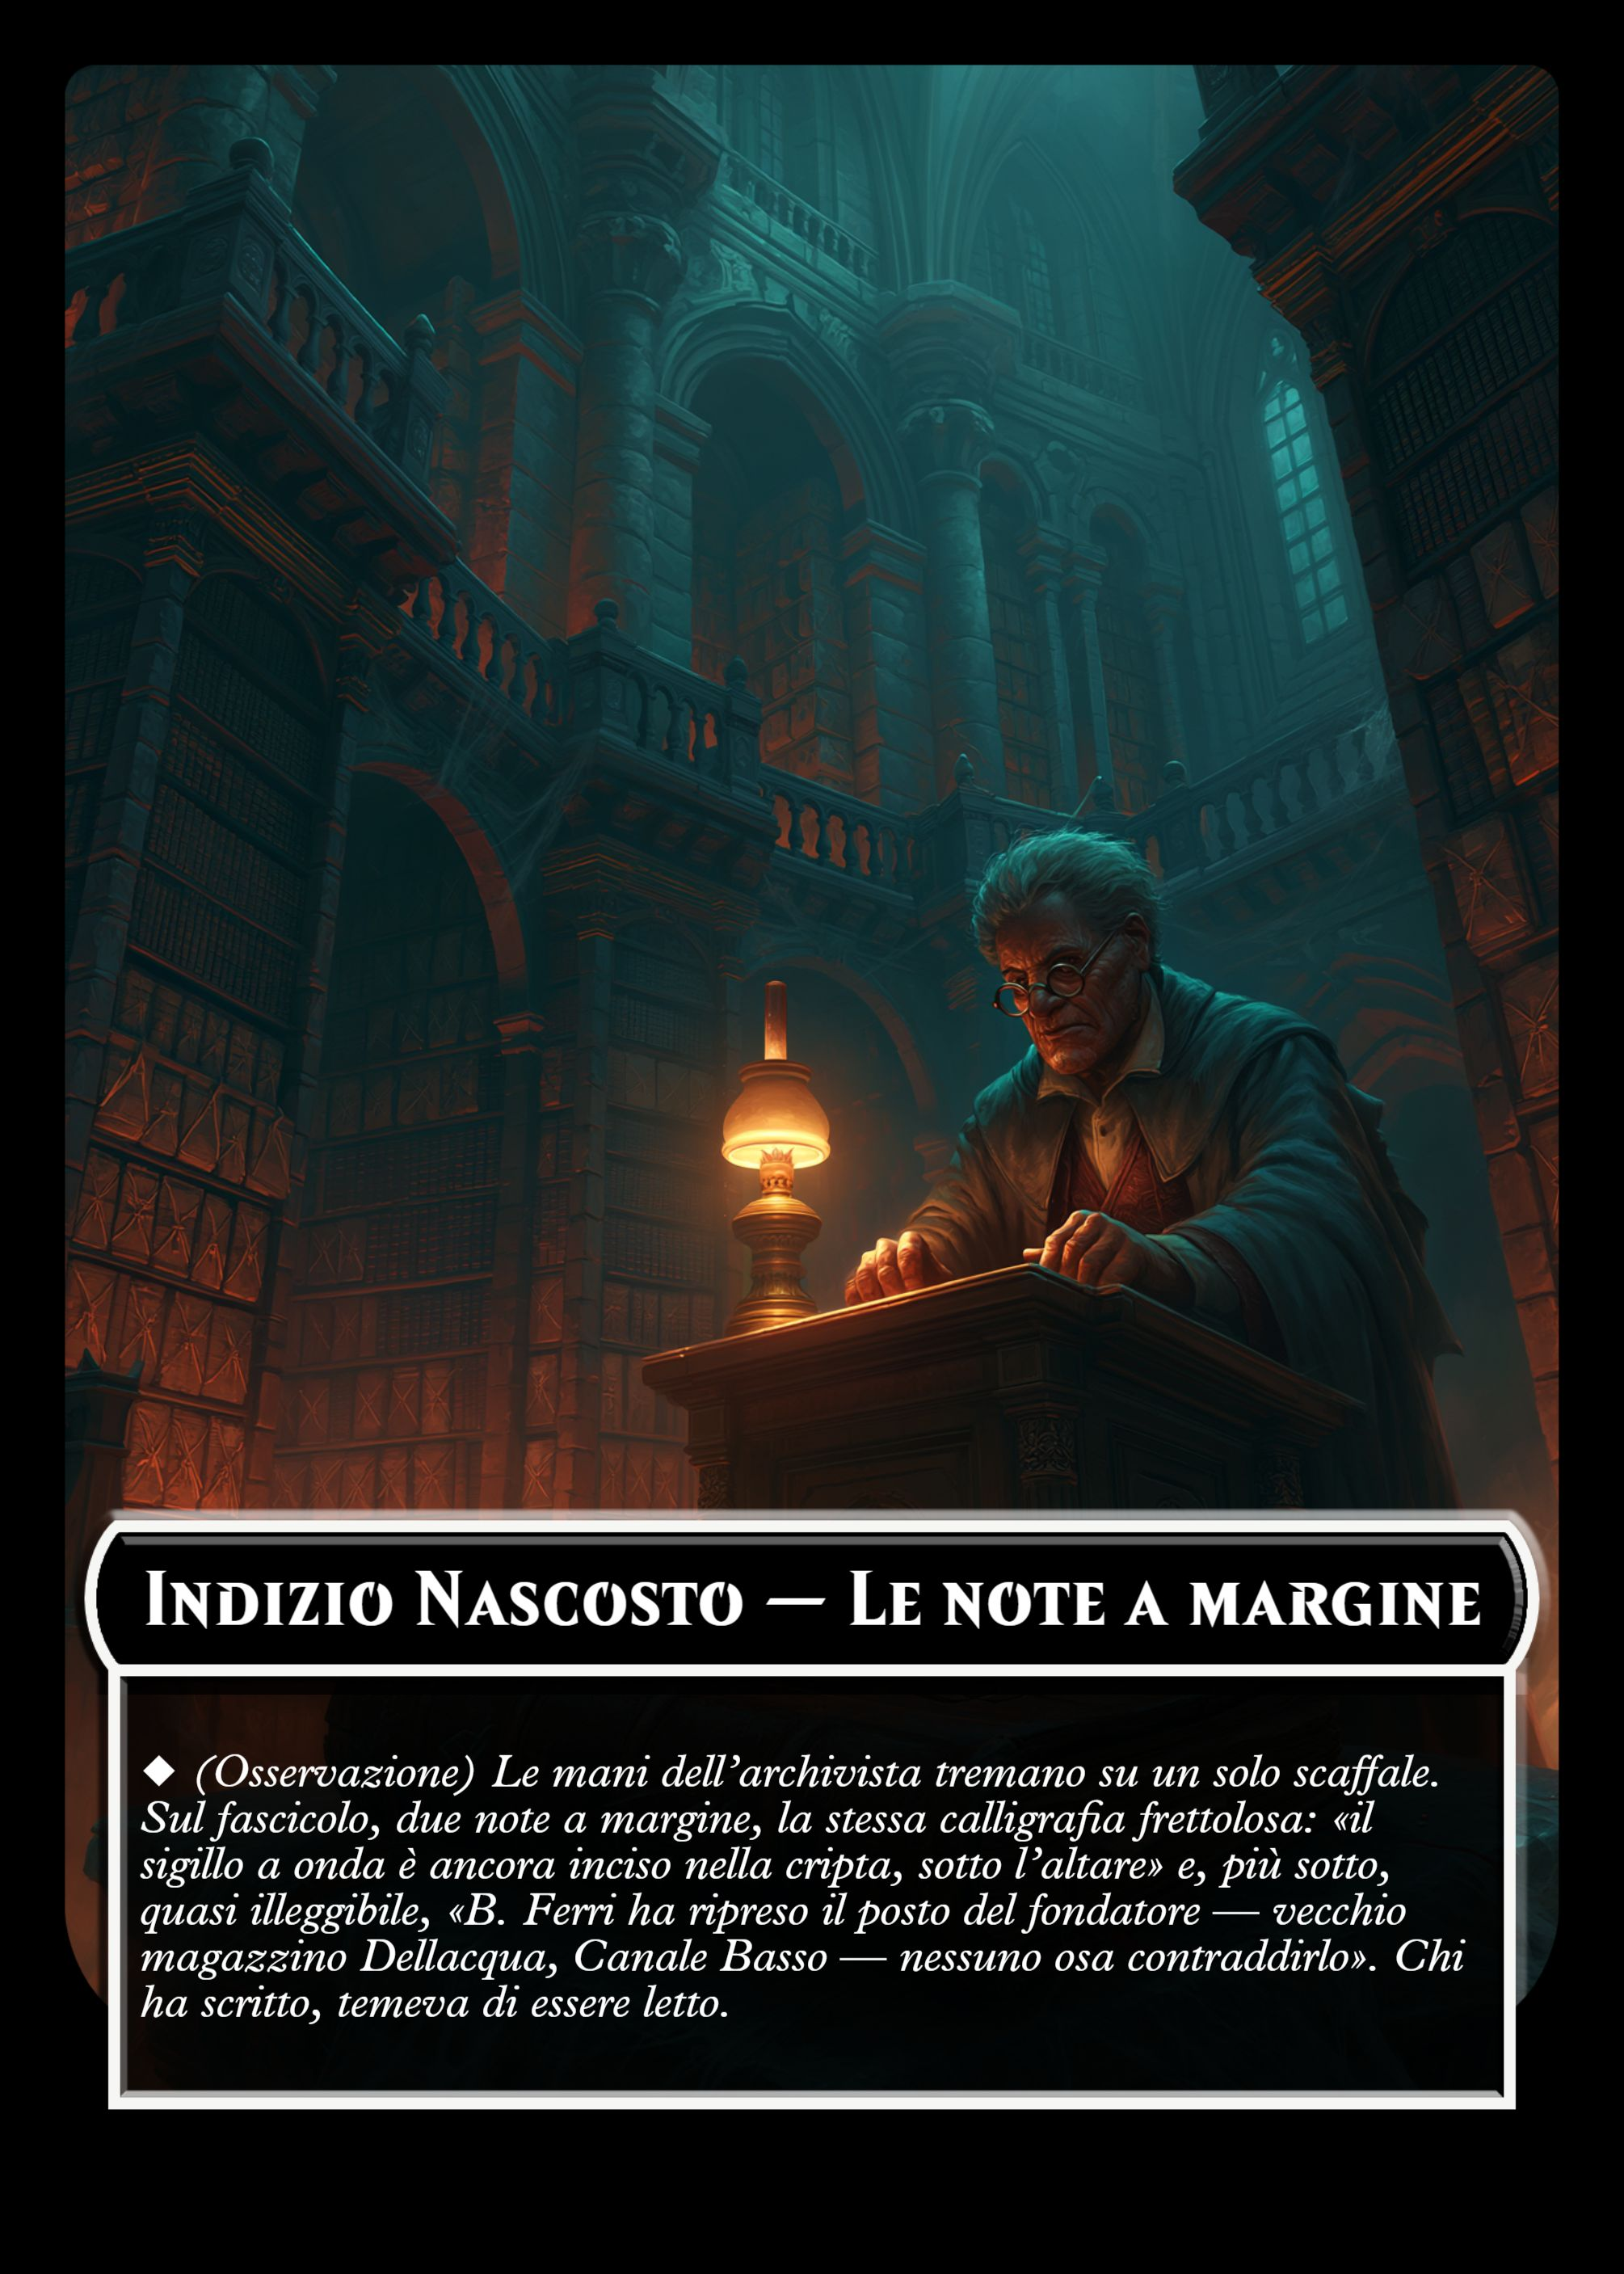
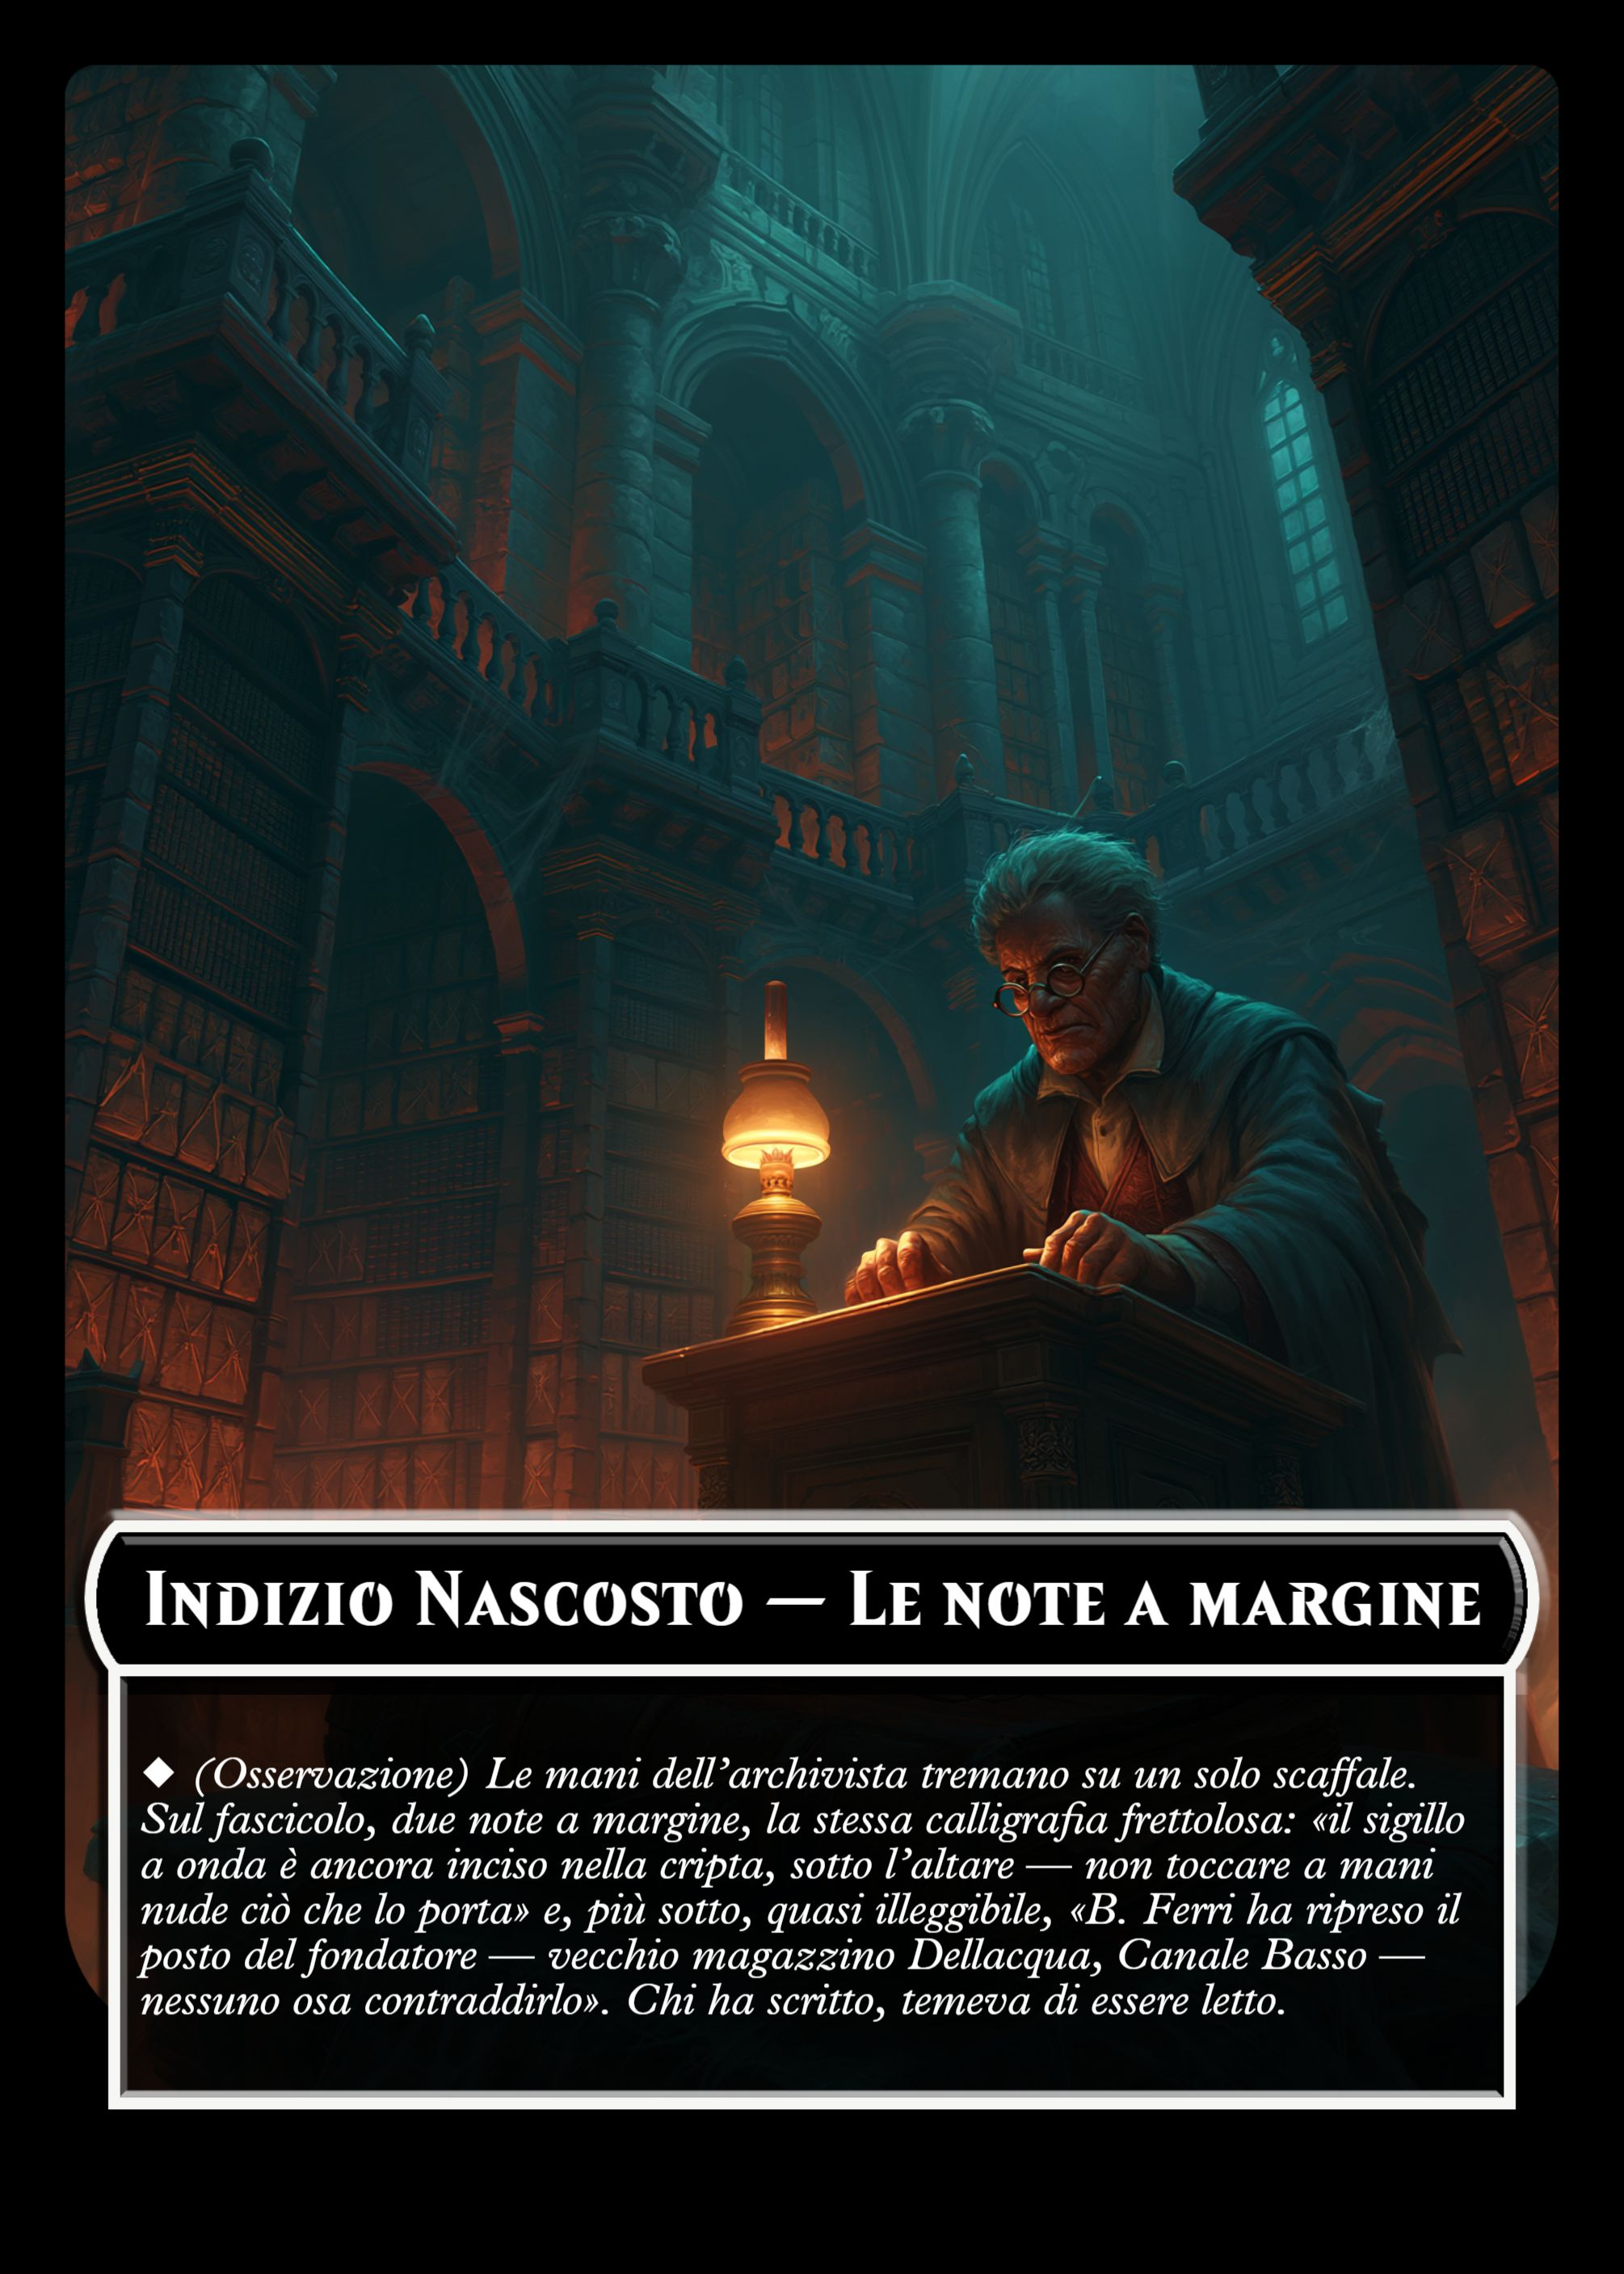
Scoperta in Spedizione: ponte Indagine->Spedizione, tell sul fronte, esiti vuoti con colore
Cercare era una scommessa cieca e l'Indagine ben fatta non pagava dentro
la Spedizione (solo il tier). Tre aggiunte, zero componenti nuovi:

- Hook Indagine->Spedizione (campo `hook` in TILES, verita' sul retro
  delle note tessera in rosso): possedere l'Approfondimento giusto =
  niente prova sulla trappola. Ep.1: il Presagio "L'acqua che ascolta"
  (L6) ora "vede" la chiave sul filo teso -> presa senza prova in T4;
  le "Note a margine" (L7) avvertono "non toccare a mani nude cio' che
  porta il sigillo a onda" -> talismano di T3 senza prova. Le 2 carte
  Indizio Nascosto rigenerate (testi in gen_cards + cards-data.js).
- Tell ambientali sul fronte: il riflesso "che non e' cera" in T3 (unico
  invito a deviare sul ramo opzionale) e il filo di spago in T4 (trappola
  telegrafata a chi presta attenzione, fair play alla D&D).
- Esiti vuoti con colore (campo `cerca_vuoto`): il retro da' la frase
  pronta anche per il "niente" - tono identico tra tesoro e nulla.

Simulatore: approf_dettaglio (set (luogo, tipo)) nel ritorno d'indagine,
hook T4 modellato (T3 fuori percorso scriptato, dichiarato nel docstring).
Sanity n=4/n=8 su seed di validazione: 78%/85%, invariati. Con l'euristica
greedy l'hook scatta di rado (cariche spese sui primi luoghi): e' il
premio per chi sceglie con cura, regola annotata in bibbia.

Claude-Session: https://claude.ai/code/session_01XuquDb8FYxZNBqYmxFC6fp

Changed region(s): [[0.0925, 0.7729, 0.8945, 0.8966]]

diff --git a/scripts/cardconjurer/cards-data.js b/scripts/cardconjurer/cards-data.js
@@ -258,12 +258,12 @@ const LUOGHI = [
     testo: 'L’acqua qui non scorre: sta. Nera, ferma, densa come olio, lambisce magazzini ciechi dai portoni murati. Il guardiano notturno esce dal casotto con la lanterna alzata e, per qualche moneta, la diffidenza si scioglie in fretta: da settimane muore dalla voglia di raccontare a qualcuno quello che sente la notte.',
     approfondimenti: [
       { tipo: 'Testimonianza', soggetto: 'Il guardiano notturno', testo: 'Il guardiano abbassa la voce. «Certe notti li ho visti entrare — un fornaio, un sagrestano, gente che saluto al mercato — sempre dallo stesso magazzino, quello che fu di Dellacqua. E tra loro, sempre lui: il liutaio Ferri.» Uscivano all’alba con gli occhi vuoti. Non erano più loro.' },
-      { tipo: 'Presagio', soggetto: 'L’acqua che ascolta', testo: 'Sfiorare l’acqua nera basta: non è fredda, sembra vigile. Per un istante si vede, netto come attraverso occhi non propri, l’interno del vecchio magazzino delle cere di Dellacqua, sul Canale Basso — e tra le candele, le mani di un liutaio. Qualcosa, sotto la città, conta i passi sul molo.' },
+      { tipo: 'Presagio', soggetto: 'L’acqua che ascolta', testo: 'Sfiorare l’acqua nera basta: non è fredda, sembra vigile. Per un istante si vede, netto come attraverso occhi non propri, l’interno del vecchio magazzino delle cere di Dellacqua, sul Canale Basso — le mani di un liutaio tra le candele; una stanza sepolta dagli spartiti, dove una chiave pende da un filo teso. Teso apposta. Qualcosa, sotto la città, conta i passi sul molo.' },
     ] },
   { n: 7, nome: 'L’Archivio Civico', req: 'L’archivista non alza lo sguardo finché non pronunciate la parola che avete già sentito da qualche parte in città.',
     testo: 'Scaffali fino al soffitto, cartelle legate con lo spago, la luce verde delle lampade a schermo. L’archivista, minuscolo dietro occhiali spessi, si irrigidisce quando pronunciate la parola giusta: poi, senza fiatare, vi guida a uno scaffale che nessuno tocca da decenni — la polvere è spessa un dito, tranne che su un solo fascicolo.',
     approfondimenti: [
-      { tipo: 'Osservazione', soggetto: 'Le note a margine', testo: 'Le mani dell’archivista tremano su un solo scaffale. Sul fascicolo, due note a margine, la stessa calligrafia frettolosa: «il sigillo a onda è ancora inciso nella cripta, sotto l’altare» e, più sotto, quasi illeggibile, «B. Ferri ha ripreso il posto del fondatore — vecchio magazzino Dellacqua, Canale Basso — nessuno osa contraddirlo». Chi ha scritto, temeva di essere letto.' },
+      { tipo: 'Osservazione', soggetto: 'Le note a margine', testo: 'Le mani dell’archivista tremano su un solo scaffale. Sul fascicolo, due note a margine, la stessa calligrafia frettolosa: «il sigillo a onda è ancora inciso nella cripta, sotto l’altare — non toccare a mani nude ciò che lo porta» e, più sotto, quasi illeggibile, «B. Ferri ha ripreso il posto del fondatore — vecchio magazzino Dellacqua, Canale Basso — nessuno osa contraddirlo». Chi ha scritto, temeva di essere letto.' },
     ] },
   { n: 8, nome: 'La Gendarmeria', req: 'Disponibile dall’inizio',
     testo: 'Pile di pratiche, una stufa che fuma, il brigadiere che vi riceve senza alzarsi. «Il campanaro? Sarà scappato con qualche vedova.» Ma mentre lo dice non vi guarda negli occhi, e la sua mano tamburella su un fascicolo di denunce che continua a spostare da un lato all’altro della scrivania.',

diff --git a/src/gen_cards.py b/src/gen_cards.py
@@ -274,10 +274,15 @@ LUOGHI = [
                         'sagrestano, gente che saluto al mercato — sempre dallo stesso magazzino, quello che fu '
                         'di Dellacqua. E tra loro, sempre lui: il liutaio Ferri.» Uscivano all’alba con gli occhi '
                         'vuoti. Non erano più loro.'),
+             # Hook Indagine->Spedizione (vedi bibbia punto 3): la visione
+             # mostra la trappola della chiave in T4 - chi ha letto questo
+             # Presagio prende la chiave senza prova (verita' sul retro
+             # delle note tessera, gen_gothic).
              dict(tipo='Presagio', soggetto='L’acqua che ascolta',
                   testo='Sfiorare l’acqua nera basta: non è fredda, sembra vigile. Per un istante si vede, netto '
                         'come attraverso occhi non propri, l’interno del vecchio magazzino delle cere di '
-                        'Dellacqua, sul Canale Basso — e tra le candele, le mani di un liutaio. Qualcosa, sotto '
+                        'Dellacqua, sul Canale Basso — le mani di un liutaio tra le candele; una stanza sepolta '
+                        'dagli spartiti, dove una chiave pende da un filo teso. Teso apposta. Qualcosa, sotto '
                         'la città, conta i passi sul molo.'),
          ]),
     dict(n=7, nome='L’ARCHIVIO CIVICO', voce_mappa='L’Archivio Civico', req='L’archivista non alza lo sguardo finché non pronunciate la parola che avete già sentito da qualche parte in città.',
@@ -292,12 +297,17 @@ LUOGHI = [
                  'Registro consultazioni, due mesi fa: «<b>B. Ferri, liutaio</b>» ha richiesto questo '
                  'stesso fascicolo.'],
          approfondimenti=[
+             # Hook Indagine->Spedizione (vedi bibbia punto 3): l'avvertimento
+             # sul sigillo a onda copre il talismano di T3 - chi ha letto
+             # questa Osservazione lo prende senza prova (verita' sul retro
+             # delle note tessera, gen_gothic).
              dict(tipo='Osservazione', soggetto='Le note a margine',
                   testo='Le mani dell’archivista tremano su un solo scaffale. Sul fascicolo, due note a margine, '
                         'la stessa calligrafia frettolosa: «il sigillo a onda è ancora inciso nella cripta, '
-                        'sotto l’altare» e, più sotto, quasi illeggibile, «B. Ferri ha ripreso il posto del '
-                        'fondatore — vecchio magazzino Dellacqua, Canale Basso — nessuno osa contraddirlo». '
-                        'Chi ha scritto, temeva di essere letto.'),
+                        'sotto l’altare — non toccare a mani nude ciò che lo porta» e, più sotto, quasi '
+                        'illeggibile, «B. Ferri ha ripreso il posto del fondatore — vecchio magazzino '
+                        'Dellacqua, Canale Basso — nessuno osa contraddirlo». Chi ha scritto, temeva di '
+                        'essere letto.'),
          ]),
     dict(n=8, nome='LA GENDARMERIA', voce_mappa='La Gendarmeria', req='Disponibile dall’inizio',
          testo='Il brigadiere vi riceve tra pile di pratiche: «Il campanaro? Sarà scappato con '
@@ -457,35 +467,59 @@ NEMICI = [
 ]
 
 TILES = [
+    # cerca_vuoto: frase di colore per il Cercare a vuoto (retro note tessera,
+    # gen_gothic) - il "niente" si legge con lo stesso tono di un tesoro,
+    # mai un secco "non c'e' nulla" (bibbia punto 3).
     dict(id='T1', nome='BANCHINA D’INGRESSO', exits={'N': 'T2'},
          testo='Acqua nera che lambisce le pietre, odore di sego. La porta sul retro ha un lucchetto '
                'a tre cifre (vedi Soluzione). Qui dovete riportare Ruggero per vincere.',
+         cerca_vuoto='Frugate tra le cime e gli anelli d’ormeggio: solo salsedine, e l’acqua nera '
+                     'che vi osserva frugare.',
          arredi=[(0, 3, 'molo'), (3, 3, 'casse')]),
     dict(id='T2', nome='SALA DELLE CASSE', exits={'S': 'T1', 'E': 'T3', 'O': 'T4', 'N': 'T5 (grata: azione Interagire per aprirla)'},
          testo='Casse marchiate con l’onda, accatastate fino al soffitto.',
          cerca='Un piede di porco: +1 alle prove per forzare e scassinare.',
          arredi=[(1, 1, 'casse'), (2, 2, 'casse')]),
+    # Tell nel testo fronte (bibbia punto 3): T3 e' il ramo opzionale, il
+    # riflesso "che non e' cera" e' l'unico invito a deviare - deliberato
+    # un filo piu' leggibile dei tell di T2/T4.
     dict(id='T3', nome='CORRIDOIO DELLE CANDELE', exits={'O': 'T2'},
-         testo='Migliaia di candele nere accese. Chi entra in questa tessera per la prima volta prova '
-               'NERVI (Media): se fallisce, 1 danno (cera bollente).',
+         testo='Migliaia di candele nere accese. Tra le colate, in fondo, un riflesso che non è cera. '
+               'Chi entra in questa tessera per la prima volta prova NERVI (Media): se fallisce, '
+               '1 danno (cera bollente).',
          cerca='Un talismano a forma d’onda: chi lo porta ha +1 NERVI. È caldo, come stretto un '
                'istante prima da un’altra mano: prenderlo è una scelta. Se lo lasciate lì, '
                'nessuna conseguenza. Se lo prendete, prova NERVI (Media): se fallita, cera '
                'bollente — 1 danno e perdete 1 azione al prossimo turno (il talismano resta '
                'comunque vostro).',
+         # Hook Indagine->Spedizione (bibbia punto 3): possesso carta =
+         # niente prova su questa trappola.
+         hook='Se il gruppo ha letto l’Osservazione «Le note a margine» (Luogo 7): ricordano '
+              'l’avvertimento — lo avvolgono senza toccarlo a mani nude, niente prova.',
          arredi=[(0, 0, 'candele'), (3, 0, 'candele'), (0, 3, 'candele'), (3, 3, 'candele')]),
+    # Tell del filo (bibbia punto 3): la trappola della chiave e'
+    # telegrafata a chi presta attenzione - fair play, precedente D&D
+    # (percezione passiva). Chi ricorda il dettaglio quando trova la
+    # chiave puo' insospettirsi da solo.
     dict(id='T4', nome='UFFICIO DEL CUSTODE', exits={'E': 'T2'},
-         testo='Una scrivania sommersa di spartiti, un pagliericcio che puzza di sego.',
+         testo='Una scrivania sommersa di spartiti, un pagliericcio che puzza di sego. Sulla mensola, '
+               'tra i vasetti, un filo di spago che non regge nulla — o così pare.',
          cerca='La CHIAVE DELLA CELLA e un registro: «Il dormiente gradisce il canto. Manca '
                'solo la voce del bronzo.» La chiave pende da un filo teso a un vasetto '
                'rovesciato: prenderla è una scelta. Se la lasciate lì, il registro resta '
                'comunque leggibile. Se la prendete, prova NERVI (Media): se fallita, i fumi vi '
                'stordiscono — 1 sola azione al prossimo turno (la chiave resta comunque '
                'vostra).',
+         # Hook Indagine->Spedizione (bibbia punto 3): possesso carta =
+         # niente prova su questa trappola.
+         hook='Se il gruppo ha letto il Presagio «L’acqua che ascolta» (Luogo 6): hanno già '
+              'visto il filo — staccano la chiave senza prova.',
          arredi=[(1, 3, 'scrivania'), (3, 0, 'branda')]),
     dict(id='T5', nome='SCALA AL PIANO INTERRATO', exits={'S': 'T2', 'N': 'T6'},
          testo='Gradini viscidi che scendono nel canto. Chi scende prova NERVI (Facile): se fallisce, '
                'ha 1 sola azione al prossimo turno.',
+         cerca_vuoto='Sui gradini viscidi non c’è nulla da raccogliere — solo il canto, un poco più '
+                     'forte a ogni passo che restate fermi ad ascoltarlo.',
          arredi=[(1, 1, 'scala'), (2, 1, 'scala'), (1, 2, 'scala'), (2, 2, 'scala')]),
     dict(id='T6', nome='CRIPTA DELLA CERA', exits={'S': 'T5'},
          testo='Un altare circondato da candele nere; dietro, una cella sbarrata con Ruggero. '
@@ -496,5 +530,7 @@ TILES = [
          # gen_gothic.spedizione), mai nel testo letto alla rivelazione.
          arbitro='La cella: si apre con LA CHIAVE DELLA CELLA (T4) con Interagire, senza prove — '
                  'oppure scassinando, ACUME Difficile (il piede di porco di T2 dà +1).',
+         cerca_vuoto='Tra le stalattiti di cera e le candele nere, nulla che si possa portare via — '
+                     'tutto, qui, è già di qualcuno.',
          arredi=[(1, 2, 'altare'), (2, 2, 'altare'), (3, 3, 'CELLA')]),
 ]

diff --git a/scripts/simulate_playtest.py b/scripts/simulate_playtest.py
@@ -38,6 +38,10 @@ di ogni log):
   Nino e Carbone hanno un impatto minore in questa astrazione e sono
   annotati ma non pienamente simulati (nessuna prova di Cercare/scassinare
   dedicata nel loop di combattimento).
+- Hook Indagine->Spedizione (bibbia punto 3): quello della chiave (Presagio
+  L6 -> trappola T4 senza prova) e' modellato; quello del talismano
+  (Osservazione L7 -> T3) NO, perche' T3 e' fuori dal percorso scriptato e
+  il talismano non e' comunque simulato.
 - I nemici scelgono il bersaglio A CASO tra i vivi, non "il piu' vicino in
   piedi" (regola vera): divergenza deliberata - il fuoco concentrato sul
   piu' vicino, senza IA di protezione/posizionamento difensivo per gli
@@ -648,6 +652,10 @@ def simula_indagine(party, log, esplora_a_fondo=False):
     # condiviso tra Indagine e Spedizione - il residuo viaggia nel dict di
     # ritorno e simula_spedizione lo eredita.
     secondo_fiato = {n: True for n in party}
+    # Quali Approfondimenti sono stati letti, per luogo e tipo: serve agli
+    # hook Indagine->Spedizione (es. il Presagio di L6 che avverte della
+    # trappola della chiave in T4 - vedi bibbia punto 3).
+    approf_dettaglio = set()
     fanti_scout = any(INDAGINE_UNLOCK.get(n, {}) == {} and 'Ombra fiuta' in HERO[n]['abil'] for n in party)
 
     # Tipi che QUESTO party puo' effettivamente sbloccare (il jolly di Sibilla
@@ -717,6 +725,7 @@ def simula_indagine(party, log, esplora_a_fondo=False):
                     charges[idoneo][tipo] -= 1
                     log(f'    [APPROFONDIMENTO {tipo}] sbloccato da {idoneo}.')
                 approf_letti += 1
+                approf_dettaglio.add((l['n'], tipo))
                 if (l['n'], tipo) in CHI_ESPLICITO:
                     chi_confermato = True
                     log('    -> Questa carta conferma esplicitamente che Ferri comanda (Domanda 2).')
@@ -848,7 +857,7 @@ def simula_indagine(party, log, esplora_a_fondo=False):
     log('')
     return dict(ore_avanzate=ore_avanzate, tier=tier, diapason=diapason, visitati=visitati,
                 chi_confermato=chi_confermato, dossier_completo=dossier_completo,
-                secondo_fiato=secondo_fiato)
+                secondo_fiato=secondo_fiato, approf_dettaglio=approf_dettaglio)
 
 
 def simula_indagine_2gruppi(party, log, orologio_condiviso=True):
@@ -1671,13 +1680,20 @@ def simula_spedizione(party, indagine, log, run_seed, formula_minaccia='standard
                 'decide di prenderla (oggetto rischioso).')
             chiave = True
             presatore = max(party, key=lambda n: HERO[n]['nervi'])
-            bonus, chi_bonus = voce_ferma_bonus(presatore)
-            ok, _ = check(log, presatore, 'NERVI', HERO[presatore]['nervi'], 'Media', bonus,
-                          f'Voce ferma di {chi_bonus}' if bonus else '')
-            if not ok:
-                azioni_perse.add(presatore)
-                log(f'    I fumi stordiscono {presatore}: 1 sola azione al prossimo turno. '
-                    f'La chiave resta comunque sua.')
+            # Hook Indagine->Spedizione (bibbia punto 3): chi ha letto il
+            # Presagio di L6 ha gia' "visto" il filo teso - stacca la
+            # chiave senza prova (verita' sul retro delle note tessera).
+            if (6, 'Presagio') in indagine.get('approf_dettaglio', set()):
+                log(f'    [HOOK INDAGINE] {presatore} ricorda il Presagio «L’acqua che ascolta»: '
+                    f'ha già visto il filo teso — stacca la chiave senza prova.')
+            else:
+                bonus, chi_bonus = voce_ferma_bonus(presatore)
+                ok, _ = check(log, presatore, 'NERVI', HERO[presatore]['nervi'], 'Media', bonus,
+                              f'Voce ferma di {chi_bonus}' if bonus else '')
+                if not ok:
+                    azioni_perse.add(presatore)
+                    log(f'    I fumi stordiscono {presatore}: 1 sola azione al prossimo turno. '
+                        f'La chiave resta comunque sua.')
         if tappa.startswith('T6') and custode is None:
             # Vicino all'altare, non sulla soglia: "un altare circondato da
             # candele nere" (testo del luogo) e' piu' fedele di piazzarlo

diff --git a/src/gen_gothic.py b/src/gen_gothic.py
@@ -191,14 +191,24 @@ def spedizione():
             flow.append(Paragraph('<b>Cercare:</b> ' + T['cerca'],
                                   st('tc', fontSize=9, leading=12, textColor=TEAL)))
         else:
-            flow.append(Paragraph('<b>Cercare:</b> niente da trovare qui.',
-                                  st('tn', fontSize=9, leading=12, textColor=TEAL)))
+            # Anche il "niente" ha la sua frase di colore (campo cerca_vuoto):
+            # si legge con lo stesso tono di un tesoro, mai un secco "nulla".
+            flow.append(Paragraph('<b>Cercare:</b> ' + T.get(
+                'cerca_vuoto', 'niente da trovare qui.'),
+                st('tn', fontSize=9, leading=12, textColor=TEAL)))
+        if T.get('hook'):
+            # Hook Indagine->Spedizione: possesso della carta giusta =
+            # niente prova sulla trappola di questa tessera.
+            flow.append(Spacer(1, 2))
+            flow.append(Paragraph('<b>' + T['hook'] + '</b>',
+                                  st('th', fontSize=9, leading=12, textColor=RED)))
         if T.get('arbitro'):
             flow.append(Spacer(1, 2))
             flow.append(Paragraph(T['arbitro'], st('ta', fontSize=9, leading=12, textColor=TEAL)))
-        fh = 26*mm if (T.get('cerca') and len(T['cerca']) > 120) or T.get('arbitro') else 10*mm
+        fh = 32*mm if T.get('hook') else \
+             26*mm if (T.get('cerca') and len(T['cerca']) > 120) or T.get('arbitro') else 12*mm
         frame_flow(c, 20*mm, y - 6*mm - fh, W - 40*mm, fh, flow)
-        y -= fh + 12*mm
+        y -= fh + 10*mm
     c.showPage()
     token_sheet(c)
     registro_ferite(c)

diff --git a/src/story.py b/src/story.py
@@ -56,11 +56,16 @@ TESTI_TILES = {
           "(vedi Soluzione). Qui dovete riportare Ruggero per vincere.",
     'T2': "Casse marchiate a fuoco con l\u2019onda, accatastate fino al soffitto in corridoi "
           "ciechi. Qualcosa, tra le pile, scricchiola nei momenti in cui nessuno si muove.",
+    # Tell nel testo letto ad alta voce (bibbia punto 3): T3 il riflesso
+    # (ramo opzionale, tell deliberatamente piu' leggibile), T4 il filo
+    # (la trappola della chiave, telegrafata a chi presta attenzione).
     'T3': "Migliaia di candele nere trasformano il corridoio in una gola di luce tremolante; "
-          "il caldo \u00e8 innaturale, la cera cola dalle mensole come pioggia lenta. Chi entra "
+          "il caldo \u00e8 innaturale, la cera cola dalle mensole come pioggia lenta. Tra le "
+          "colate, in fondo, un riflesso che non \u00e8 cera. Chi entra "
           "per la prima volta prova NERVI (Media): se fallisce, 1 danno (cera bollente).",
     'T4': "Una scrivania sommersa di spartiti annotati con grafia febbrile, un pagliericcio "
-          "che puzza di sego, una tazza ancora tiepida. Il custode non \u00e8 lontano.",
+          "che puzza di sego, una tazza ancora tiepida. Sulla mensola, tra i vasetti, un filo "
+          "di spago che non regge nulla \u2014 o cos\u00ec pare. Il custode non \u00e8 lontano.",
     'T5': "Gradini viscidi scendono in un buio che canta: a ogni passo le voci si fanno pi\u00f9 "
           "nitide, e pi\u00f9 sbagliate. Chi scende prova NERVI (Facile): se fallisce, ha 1 sola "
           "azione al prossimo turno.",

diff --git a/PROMPT-ESPANSIONE.md b/PROMPT-ESPANSIONE.md
@@ -318,6 +318,31 @@ prima che l'Ep. 1 lo riveli.
    overlord. Serve la pagina di servizio dopo la copertina per tenere la coppia
    fronte/segreti sullo stesso foglio in stampa fronte/retro (parità pagine, come
    `pagina_indice_citta`). Il Preludio resta volutamente in chiaro: è la scuola.
+   Tre regole che completano il sistema (dal 2026-07-16, seconda passata):
+   - **Tell obbligatorio sul fronte**: ogni tessera con qualcosa da trovare
+     (`cerca`/`arbitro`) ha un dettaglio sensoriale nel testo letto ad alta voce
+     — premia chi ascolta, mai un invito esplicito ("qualcosa scricchiola tra le
+     pile", "un filo di spago che non regge nulla — o così pare"). Cercare deve
+     essere deduzione, non lotteria; su un ramo opzionale il tell può essere un
+     filo più leggibile (è l'unico incentivo a deviare, e deviare costa round
+     con l'orologio che avanza). Precedente: la percezione passiva di D&D — la
+     trappola telegrafata a chi presta attenzione è fair play.
+   - **Hook Indagine→Spedizione, 0–2 per episodio** (campo `hook` in `TILES`):
+     possedere l'Approfondimento giusto = niente prova su quella trappola
+     ("l'indagine vi ha avvertiti"). La verità vive SOLO sul retro delle note
+     tessera (in evidenza, rosso), mai come regola nel Regolamento; il testo
+     dell'Approfondimento contiene l'avvertimento in forma narrativa
+     riconoscibile (es. il Presagio che "vede" il filo teso, la nota d'archivio
+     «non toccare a mani nude ciò che lo porta»). Così l'indagine ben fatta paga
+     DENTRO la spedizione, non solo col tier d'ingresso. Ep. 1: L6-Presagio →
+     trappola chiave T4; L7-Osservazione → trappola talismano T3. Metti gli
+     hook su Approfondimenti PERIFERICI, non su quelli che ogni gruppo coglie
+     comunque: sono il premio per chi devia e per chi sceglie con cura dove
+     spendere le cariche (misurato: con l'euristica greedy del simulatore
+     scattano di rado — al tavolo la scelta è del giocatore, ed è il punto).
+   - **Esiti vuoti con colore** (campo `cerca_vuoto` in `TILES`): il retro dà la
+     frase pronta anche per il "niente", così il tono di chi legge è davvero
+     identico tra tesoro e nulla — e anche il buco è immersivo.
 3-bis. *Ferite nemici* — nessun gettone o dado per nemico sul tabellone: si traccia su un
    **Registro delle Ferite** riusabile (una pagina in fondo al fascicolo Spedizione, vedi
    `registro_ferite()` in `src/gen_gothic.py`), righe generiche "nemico attivo" (mai per